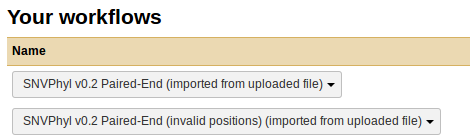
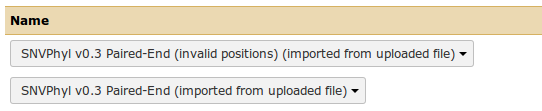
Updating Galaxy install guide for 0.3

diff --git a/docs/install/galaxy.md b/docs/install/galaxy.md
@@ -12,7 +12,7 @@ Installing Galaxy tools involves building many packages from source.  Please mak
 
 ## Installing the SNVPhyl Tools
 
-The SNVPhyl tools are managed within a Galaxy Toolshed.  In particular, within the `suite_snvphyl_0_2_0` repository at <https://irida.corefacility.ca/galaxy-shed/view/nml/suite_snvphyl_0_2_0> (the [IRIDA][] toolshed).
+The SNVPhyl tools are managed within a Galaxy Toolshed.  In particular, within one of the `suite_snvphyl_x_y_z` repositories at <https://irida.corefacility.ca/galaxy-shed/> (the [IRIDA][] toolshed).  The most recent version is `suite_snvphyl_0_3_0`.  For more information about each version please see the [versions][] document.
 
 You will have to enable this toolshed within Galaxy before SNVPhyl can be used.  The toolshed can be enabled by adding it to the `config/tool_sheds_conf.xml` Galaxy configuration file.  Please find this file and add the line:
 
@@ -24,17 +24,17 @@ Once this line is added, please restart Galaxy.  If you navigate to **Admin**, a
 
 ![irida-toolshed][]
 
-Once the IRIDA toolshed is installed, you should be able to search for the `suite_snvphyl_0_2_0` repository.
+Once the IRIDA toolshed is installed, you should be able to search for a `suite_snvphyl_x_y_z` repository.
 
 ![suite-snvphyl-repository][]
 
-Please follow through the steps to install this suite of tools, making sure to leave **Handle repository dependencies?** and **Handle tool dependencies?** checked.
+Please select the version you wish to install and follow through the steps to install this suite of tools, making sure to leave **Handle repository dependencies?** and **Handle tool dependencies?** checked.
 
 ![snvphyl-tool-dependencies][]
 
 ## Import SNVPhyl Galaxy workflows
 
-The current SNVPhyl Galaxy workflows can be found at [SNVPhyl 0.3 Paired-end][] and [SNVPhyl 0.3 Paired-end invalid positions][].  Please import these workflow files into Galaxy by navigating to **Workflow > Upload or import workflow**.  On completion you should have a set of workflows available.
+The current SNVPhyl Galaxy workflows for version 0.3 can be found at [SNVPhyl 0.3 Paired-end][] and [SNVPhyl 0.3 Paired-end invalid positions][].  Please import these files by navigating to **Workflow > Upload or import workflow**.  On completion you should have a set of workflows available.
 
 ![snvphyl-import-workflows][]
 
@@ -46,5 +46,6 @@ Installation should now be complete.  Please see the [Usage][] documentation for
 [snvphyl-tool-dependencies]: images/snvphyl-tool-dependencies.png
 [Usage]: ../user/usage.md
 [snvphyl-import-workflows]: images/snvphyl-import-workflows.png
-[SNVPhyl 0.3 Paired-end]: ../workflows/SNVPhyl/0.3/snvphyl-workflow-0.3.ga
+[SNVPhyl 0.3 Paired-end]: ../workflows/SNVPhyl/0.3/snvphyl-workflow-0.3-invalid-positions.ga
 [SNVPhyl 0.3 Paired-end invalid positions]: ../workflows/SNVPhyl/0.3/snvphyl-workflow-0.3-invalid-positions.ga
+[versions]: versions.md
